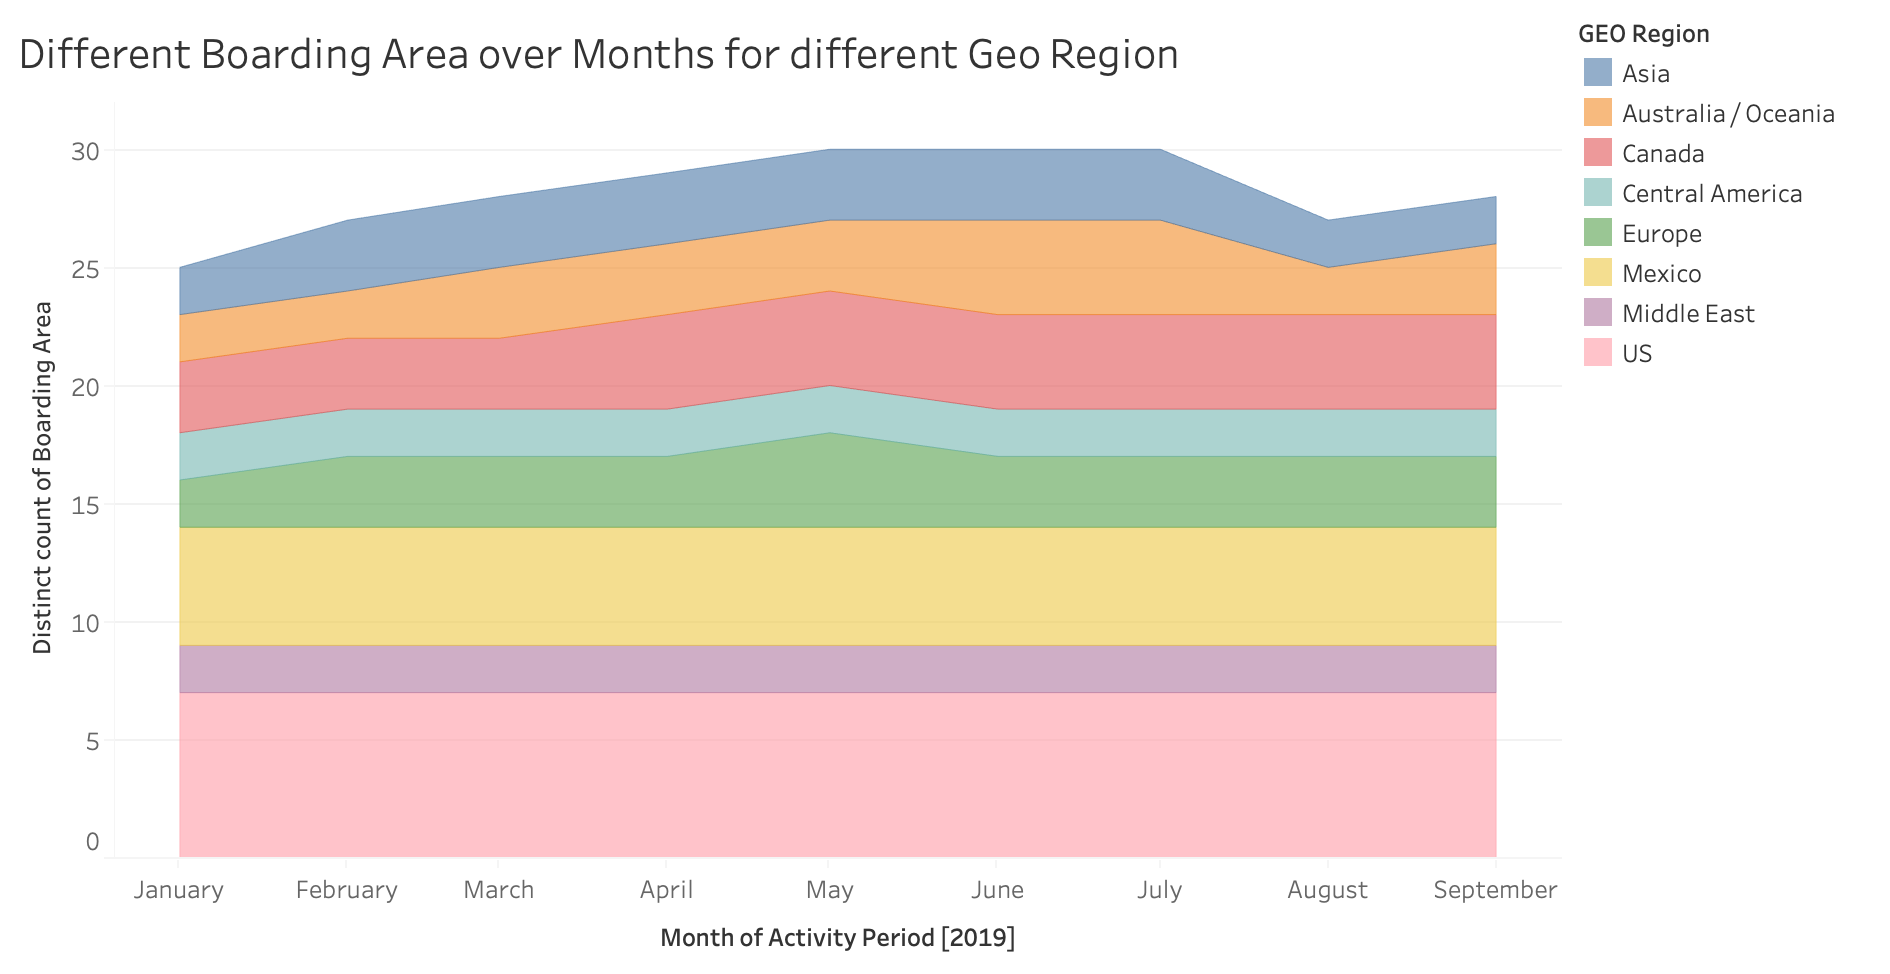
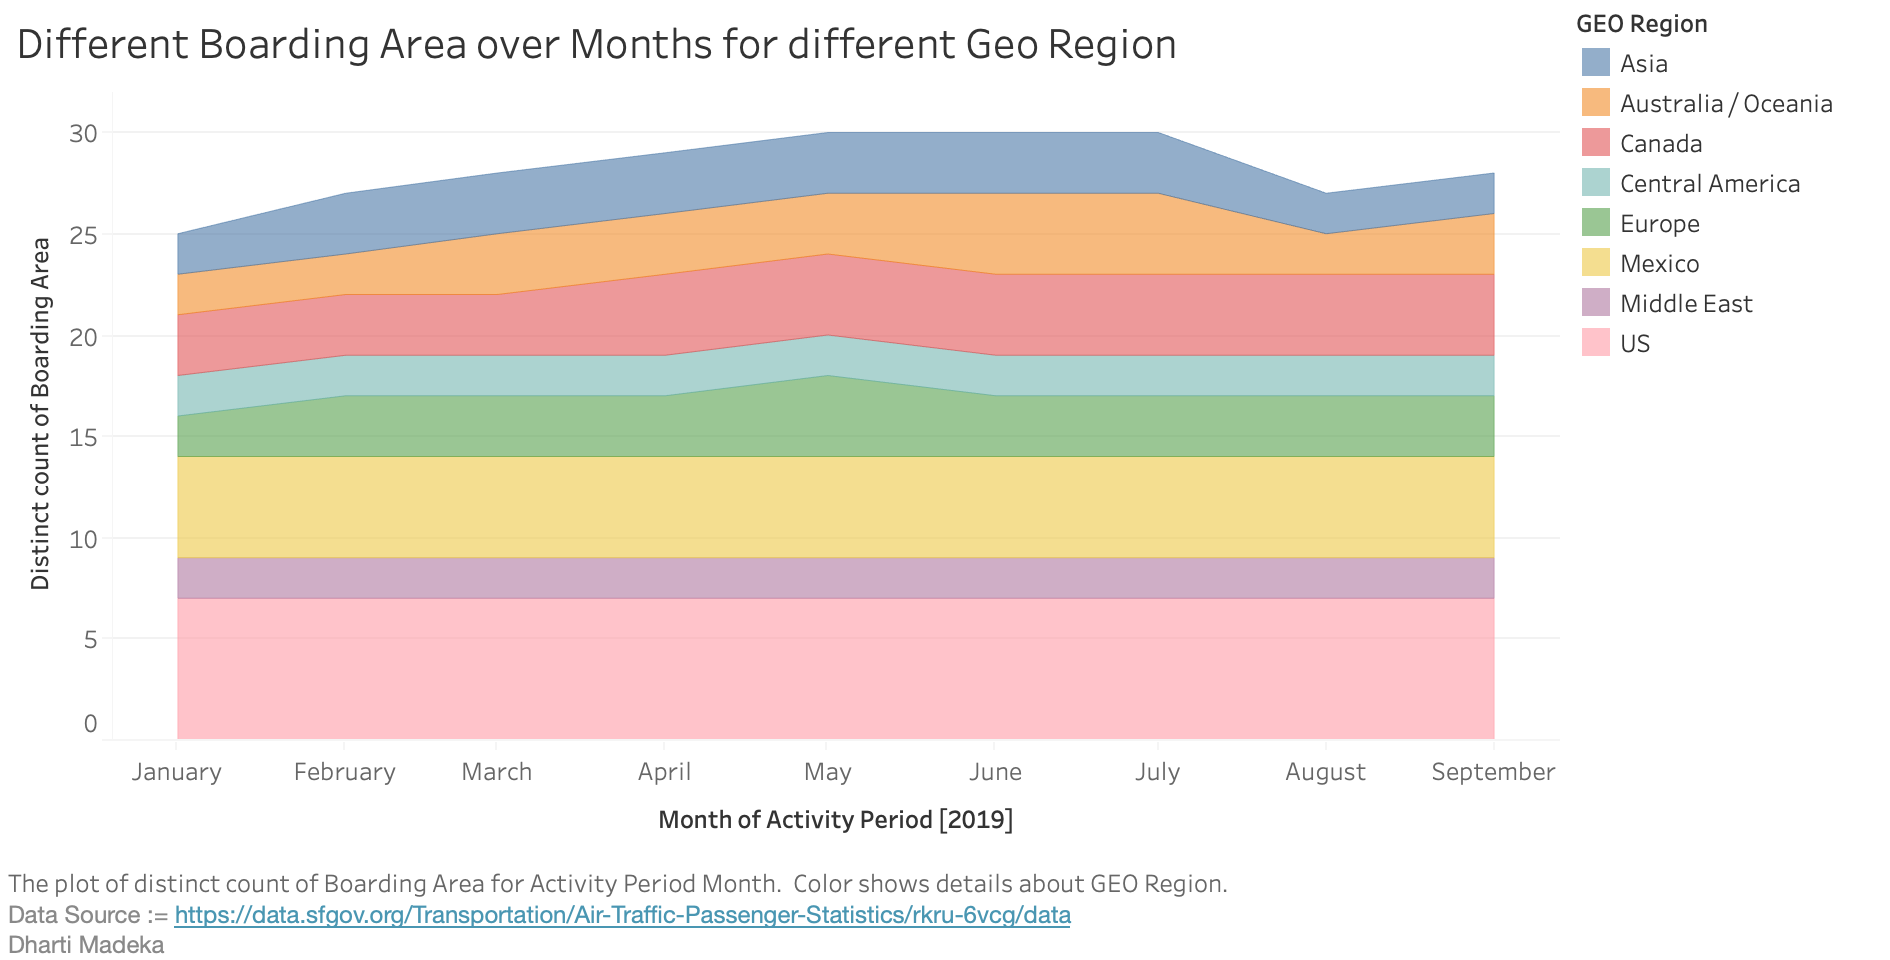
fixed area chart

diff --git a/areachart.html b/areachart.html
@@ -114,15 +114,6 @@
 
     <div id="vis">
       <img src="areachartTableau.png" alt="BarChart Tableau prototype" width="960" height="500"/>
-        <div>
-          <caption><strong>Caption: </strong> Maximum number of Passenger Count for each Terminal. <br/>
-            Data Source := <a href="https://data.sfgov.org/Transportation/Air-Traffic-Passenger-Statistics/rkru-6vcg/data">
-            https://data.sfgov.org/Transportation/Air-Traffic-Passenger-Statistics/rkru-6vcg/data</a>
-            <br/>
-            Dharti Madeka
-          </caption>
-        </div>
-      </svg>
       <script type="text/javascript">
         // creating a global variable to hold our axis and scales
           let chart = {};
